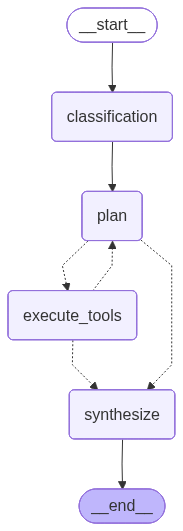
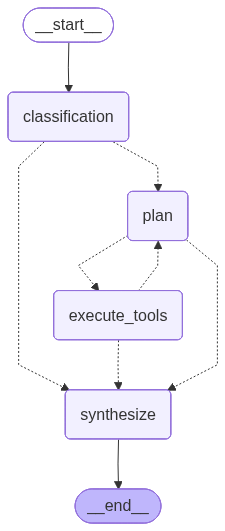
classification changes and a few other tweaks

diff --git a/agent/agent.py b/agent/agent.py
@@ -32,7 +32,17 @@ def run_agent(
     builder.add_node(EXECUTE_TOOLS_EDGE, run_executor)
     builder.add_node(SYNTHESIZE_EDGE, run_synthesis)
     builder.set_entry_point(CLASSIFICATION_EDGE)
-    builder.add_edge(CLASSIFICATION_EDGE,PLAN_EDGE)
+    
+    # Check for potentially already being ready to answer during classification
+    builder.add_conditional_edges(
+        CLASSIFICATION_EDGE,
+        router,
+        {
+            SYNTHESIZE_EDGE: SYNTHESIZE_EDGE,
+            PLAN_EDGE: PLAN_EDGE,  
+        },
+    )
+
     builder.add_conditional_edges(
         PLAN_EDGE,
         validator,
@@ -40,6 +50,7 @@ def run_agent(
             EXECUTE_TOOLS_EDGE: EXECUTE_TOOLS_EDGE, 
             SYNTHESIZE_EDGE: SYNTHESIZE_EDGE},
     )
+
     builder.add_conditional_edges(
         EXECUTE_TOOLS_EDGE,
         router,
@@ -52,7 +63,7 @@ def run_agent(
     builder.add_edge(SYNTHESIZE_EDGE, END)
     agent_graph = builder.compile()
 
-    # create a graph to see what our chain looks like
+    #create a graph to see what our chain looks like
     # png = agent_graph.get_graph(xray=1).draw_mermaid_png(
     #     background_color="white"
     # )

diff --git a/rendering/sidebar.py b/rendering/sidebar.py
@@ -33,16 +33,6 @@ def render_sidebar(conversation_repository) -> None:
         st.rerun()
 
     st.divider()
-    # move the random styles somewhere else later
-    st.markdown(
-        """<style>
-        button[data-testid="stBaseButton-secondary"] > div {
-            justify-content: flex-start !important;
-        }
-        </style>""",
-        unsafe_allow_html=True,
-    )
-
     st.caption("Conversations")
     conversations = conversation_repository.list_conversations(user_id="anonymous", limit=50)
     current_id = st.session_state.conversation_id
@@ -55,7 +45,6 @@ def render_sidebar(conversation_repository) -> None:
         col_title, col_delete = st.columns([5, 1])
         with col_title:
             if is_active:
-                # move these somewhere else later on if wanna keep
                 st.markdown(
                     f'<div style="'
                     f'background:rgba(99,136,219,0.2);'

diff --git a/agent/classify/prompts/classify_schema_prompt.py b/agent/classify/prompts/classify_schema_prompt.py
@@ -1,7 +1,11 @@
 CLASSIFY_SCHEMA = """
 You MUST output valid JSON with this structure:
-
+Determine whether the user's request requires external tools.
+Set "can_answer_without_tools" to true only if the user's request can be answered well using the conversation context already provided, without retrieving additional external information.
+If tools could help retrieve additional information, include the relevant tool categories.
 {
-  "applicable_tool_categories": ["<category1>", "<category2>"]
+  "applicable_tool_categories": ["<category1>", "<category2>"],
+  "can_answer_without_tools": true,
+  "confidence": 0.5
 }
 """

diff --git a/agent/planner/prompts/planner_rules.py b/agent/planner/prompts/planner_rules.py
@@ -7,6 +7,7 @@ def build_planner_rules(extra_rules: dict[str, list[str]] | None = None) -> str:
         "If final_answer is not null, steps MUST be an empty list.",
         "When attempting to call tools with fields try to fetch their values first from related tools.",
         "Carry forward prior plans, evidence, and constraints that remain relevant."
+        "When a question depends on the result of another tool try to sequence them dependency is obvious from the request and available context."
     ]
     bullet_rules = "\n".join(f"- {rule}" for rule in rules)
     result = f"Rules:\n{bullet_rules}"

diff --git a/agent/classify/prompts/classify_prompt.py b/agent/classify/prompts/classify_prompt.py
@@ -17,7 +17,6 @@ def build_classify_prompt(agent_state: AgentState) -> str:
     return (
         "You are a request classifier. Given the user's request, return only the category names that are relevant.\n\n"
         f"{conversation_block}"
-        f"User request: {agent_state.task}\n\n"
         f"Available categories:\n{category_lines}\n\n"
         f"Response Schema: {CLASSIFY_SCHEMA}"
     )

diff --git a/agent/classify/classify.py b/agent/classify/classify.py
@@ -21,4 +21,8 @@ def classify(agent_state: AgentState) -> AgentState:
         build_classify_status_message(agent_state.classification_results.applicable_tool_categories)
     )
 
+    if(agent_state.classification_results.can_answer_without_tools and 
+       agent_state.classification_results.confidence >=0.8):
+        agent_state.goal_reached = True
+
     return agent_state

diff --git a/agent/synthesis/synthesis.py b/agent/synthesis/synthesis.py
@@ -24,7 +24,8 @@ def _strip_code_fences(s: str) -> str:
 
 @traceable(name="Synthesis Node")
 def run_synthesis(state: AgentState) -> AgentState:
-    if not state.iteration_trace:
+    # exit we may need to modify
+    if not state.iteration_trace and not state.goal_reached:
         state.result = AgentResult(answer=[])
         state.goal_reached = True
         return state

diff --git a/agent/tool/books/search_books.py b/agent/tool/books/search_books.py
@@ -26,7 +26,7 @@ class SearchBooksArgs(BaseModel):
     "search_books",
     args_schema=SearchBooksArgs,
     description="""
-Search the Open Library catalog for books by title, author, subject, or keyword.
+Search the Open Library catalog for books by a title, author, subject, or keyword.
 
 Required fields:
 - query (string)

diff --git a/main.py b/main.py
@@ -29,6 +29,9 @@ st.markdown(
         overflow: hidden !important;
         text-overflow: ellipsis !important;
     }
+    button[data-testid="stBaseButton-secondary"] > div {
+        justify-content: flex-start !important;
+    }
     </style>""",
     unsafe_allow_html=True,
 )

diff --git a/agent/router/router.py b/agent/router/router.py
@@ -4,6 +4,7 @@ from agent.agentstate.model import AgentState
 from agent.graph_constants import PLAN_EDGE, SYNTHESIZE_EDGE
 
 
+# this can effectively become a statemachine fairly soon
 def router(state: AgentState) -> str:
     # Stop if goal reached
     if state.goal_reached:

diff --git a/agent/agentstate/model.py b/agent/agentstate/model.py
@@ -18,6 +18,8 @@ def flatten_conversation_entries(entries: list[dict]) -> str:
 
 class ClassificationResults(BaseModel):
     applicable_tool_categories: list[str] = []
+    can_answer_without_tools: bool = False
+    confidence: float = 0.0
 
 
 @dataclass

diff --git a/agent/tool/search/wikipedia_search.py b/agent/tool/search/wikipedia_search.py
@@ -50,7 +50,7 @@ Optional fields:
 Example valid call:
 {
   "query": "Toronto weather",
-  "limit": 3,
+  "limit": 5,
   "summary_sentences": 2
 }
 """,
